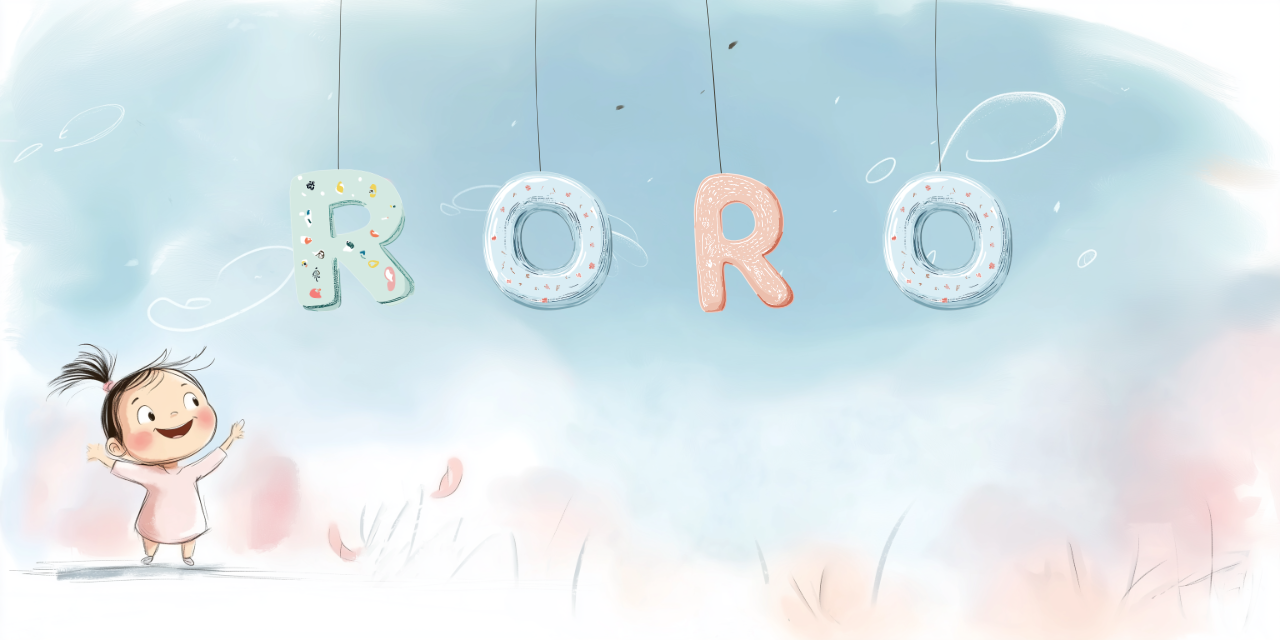
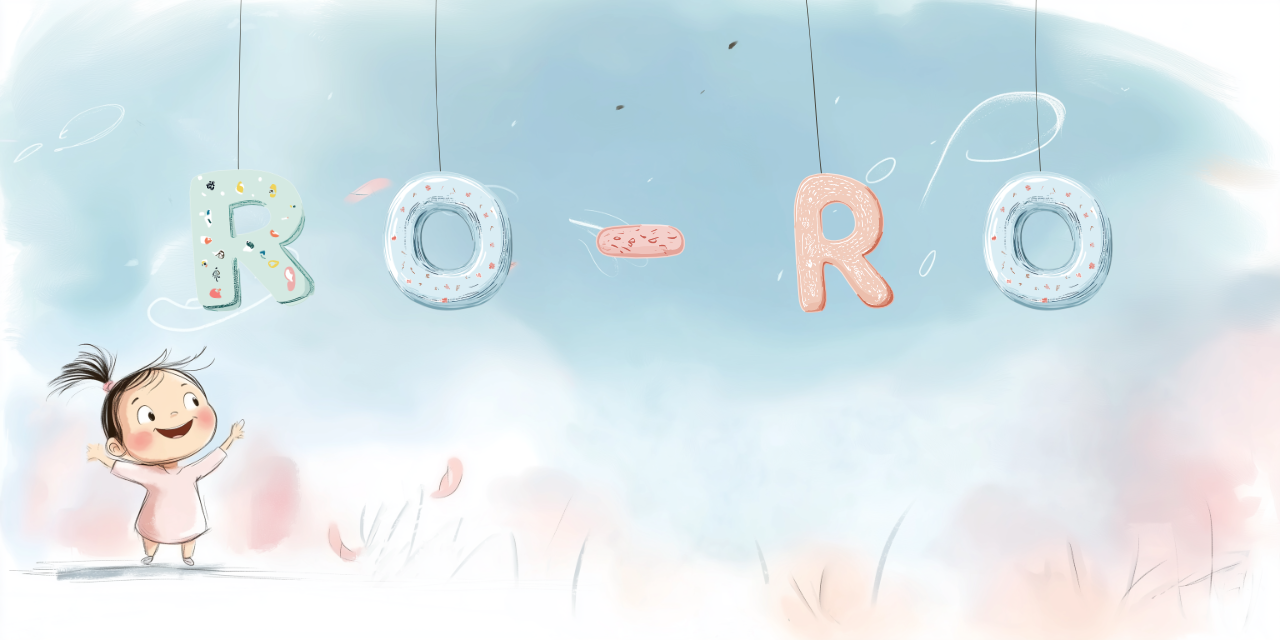
✍ Hyphenated Name Support Added
### Updates Implemented:
1. **Hyphen Recognition & Inclusion**
   - Names with hyphens (e.g., Jean-Luc) are now correctly recognized.
   - Hyphens are counted as valid characters in name length calculations.

2. **Hyphen Image Handling**
   - Correct hyphen images are used:
     - Standard: `hyphen.png`
     - Small: `hyphen_small.png`
   - Hyphen placement maintains proper spacing and alignment in rendering.

3. **Form Input & Data Transmission**
   - 'First Name' field now retains hyphens during input.
   - Hyphen preservation ensured during transmission between steps.
   - Validation prevents hyphen removal or alteration. ✅

Seamless support for hyphenated names is now in place! 🚀

Changed region(s): [[0.1562, 0.25, 0.875, 0.5]]

diff --git a/monet_V0_8/Monet_V0_8.py b/monet_V0_8/Monet_V0_8.py
@@ -4,34 +4,33 @@ from PIL import Image
 
 def generate_background_image(child_name, config):
     """
-    Generates 'Background_<child_name>.png' by overlaying smaller letter images
-    (or smaller "small" images) onto the background.
-    
-    Key features:
+    Generates 'Background_<child_name>.png' by overlaying letter images
+    onto the background. Features include:
       - Dynamic letter spacing per name length (2..12)
-      - Two sets of letter images:
-          * normal (2..7 letters)
-          * small  (8..12 letters)
+      - Two sets of letters: normal (length 2..7) vs. small (length 8..12)
       - Variation cycling for repeated letters (E.png, E1.png, E2.png, etc.)
+      - Hyphenated names (e.g., 'Jean-Luc'), counting the hyphen as a character
+        and using hyphen.png / hyphen_small.png as needed.
     """
 
-    # 1) Decide which folder to use based on length
-    #    2..7 => normal
-    #    8..12 => small
-    #    outside that range => let's default to normal 
+    # 1) Determine the name length (including hyphens)
     name_length = len(child_name)
+
+    # Decide which folder + suffix to use based on length
+    # 2..7 => normal
+    # 8..12 => small
+    # outside that => default to normal
     if 2 <= name_length <= 7:
-        letters_folder_config_key = "letters_normal"
-        suffix_small = ""  # no suffix
+        letters_folder_key = "letters_normal"
+        suffix_small = ""
     elif 8 <= name_length <= 12:
-        letters_folder_config_key = "letters_small"
+        letters_folder_key = "letters_small"
         suffix_small = config.get("filename_suffix_small", "_small")
     else:
-        # fallback if name length is 1 or >12
-        letters_folder_config_key = "letters_normal"
+        letters_folder_key = "letters_normal"
         suffix_small = ""
 
-    # 2) Extract relevant config paths
+    # 2) Build paths from config
     background_path = os.path.join(
         os.path.dirname(__file__),
         config["paths"]["new_background"].replace("monet_V0_8/", "")
@@ -39,7 +38,7 @@ def generate_background_image(child_name, config):
 
     letters_folder = os.path.join(
         os.path.dirname(__file__),
-        config["paths"][letters_folder_config_key].replace("monet_V0_8/", "")
+        config["paths"][letters_folder_key].replace("monet_V0_8/", "")
     )
 
     output_folder = os.path.join(
@@ -47,108 +46,105 @@ def generate_background_image(child_name, config):
         config["paths"]["new_output"].replace("monet_V0_8/", "")
     )
 
-    # Make sure the output folder exists
+    # Make sure output folder exists
     os.makedirs(output_folder, exist_ok=True)
 
-    # Load the background image
+    # 3) Load background
     background = Image.open(background_path).convert("RGBA")
     bg_width, bg_height = background.size
 
     # Convert child's name into a list of characters
-    letters_in_name = [char for char in child_name]
+    letters_in_name = list(child_name)  # includes hyphens if present
     if not letters_in_name:
         print("[Warning] Child name is empty, nothing to generate.")
         return
 
-    # 3) Determine letter spacing
+    # 4) Determine letter spacing
     spacing_dict = config.get("letter_spacing_per_length", {})
     default_spacing = config.get("default_letter_spacing_px", 0)
     letter_spacing = spacing_dict.get(str(name_length), default_spacing)
 
-    # 4) Variation logic
-    # We'll scan the letters folder for valid files for each letter and store them in a cache.
-    # Filenames might be E.png, E1.png, E2.png, or if suffix_small is not empty: E_small.png, E1_small.png, etc.
-    # We'll then pick the nth variation for the nth occurrence of that letter.
+    # 5) Variation logic
+    # We'll collect images for each character in the name, possibly cycling variations.
+    # Hyphen => "hyphen.png" or "hyphen_small.png"
+    # Letters => e.g. E.png, E1.png, E_small.png, E1_small.png, etc.
 
     variations_cache = {}
 
-    def get_variations_for_letter(uppercase_char):
+    def get_variations_for_char(char: str):
         """
-        Return a list of paths to variation images for the given uppercase_char,
-        optionally appending the _small suffix if needed.
-        Example: For 'E' + suffix='_small', we look for E_small.png, E1_small.png, E2_small.png, etc.
+        Returns the list of valid image paths for the given character,
+        applying the suffix for 'small' if needed.
         """
-        pattern_without_digits = rf"^{uppercase_char}{suffix_small}\.png$"
-        pattern_with_digits =   rf"^{uppercase_char}(\d+){suffix_small}\.png$"
+        # If it's a hyphen, treat it as 'hyphen' as the base name
+        if char == '-':
+            base_char = 'hyphen'
+        else:
+            # For letters, uppercase them (e.g., 'E')
+            base_char = char.upper()
+
+        # Example filenames: 
+        #   E.png, E1.png (normal)
+        #   E_small.png, E1_small.png (small)
+        #   hyphen.png, hyphen_small.png
+        # We'll handle them with a regex that checks for optional digits 
+        # between the base_char and suffix_small, e.g. E1_small
+        pattern_without_digits = rf"^{re.escape(base_char)}{suffix_small}\.png$"
+        pattern_with_digits   = rf"^{re.escape(base_char)}(\d+){re.escape(suffix_small)}\.png$"
 
         valid_files = []
         for filename in os.listdir(letters_folder):
-            # Does the file match either E_small.png or E1_small.png or E2_small.png etc.?
             if re.match(pattern_without_digits, filename) or re.match(pattern_with_digits, filename):
                 valid_files.append(filename)
 
-        # Sort them so e.g. E_small.png < E1_small.png < E2_small.png
-        valid_files.sort()
+        valid_files.sort()  # E.png < E1.png < E2.png, or hyphen.png < hyphen1.png, etc.
+        return [os.path.join(letters_folder, f) for f in valid_files]
 
-        # Convert to full paths
-        full_paths = [os.path.join(letters_folder, f) for f in valid_files]
-        return full_paths
+    def load_next_variation(char: str):
+        # If we haven't cached variations for this character, do it now
+        if char not in variations_cache:
+            variations_cache[char] = (get_variations_for_char(char), 0)
 
-    def load_next_variation(uppercase_char):
-        """
-        Each time we call this for a given uppercase_char, we get the next variation
-        in a round-robin fashion.
-        """
-        # If not in cache, load once
-        if uppercase_char not in variations_cache:
-            variations_cache[uppercase_char] = get_variations_for_letter(uppercase_char), 0
-
-        files_list, index = variations_cache[uppercase_char]
-
+        files_list, index = variations_cache[char]
         if not files_list:
-            # No images found, return None
+            # No files found for this char
             return None
 
-        # Pick the current file
         chosen_file = files_list[index]
-        # Move the index forward (wrap around if needed)
-        new_index = (index + 1) % len(files_list)
-        variations_cache[uppercase_char] = (files_list, new_index)
+        new_index = (index + 1) % len(files_list)  # round-robin
+        variations_cache[char] = (files_list, new_index)
 
-        # Return the image
         return Image.open(chosen_file).convert("RGBA")
 
+    # 6) Collect images in order
     images_to_composite = []
-    for char in letters_in_name:
-        uppercase_char = char.upper()
-        letter_img = load_next_variation(uppercase_char)
-        if letter_img:
-            images_to_composite.append(letter_img)
+    for ch in letters_in_name:
+        img = load_next_variation(ch)
+        if img:
+            images_to_composite.append(img)
         else:
-            print(f"[Warning] No images found for letter '{char}' with suffix '{suffix_small}'. Skipping.")
+            print(f"[Warning] No images found for character '{ch}'. Skipping.")
 
-    # If no images loaded, do nothing
     if not images_to_composite:
-        print("[Warning] No valid letters loaded, skipping generation.")
+        print("[Warning] No valid images loaded, skipping generation.")
         return
 
-    # 5) Calculate total width of images + spacing
-    letter_widths = [img.size[0] for img in images_to_composite]
-    sum_letter_widths = sum(letter_widths)
+    # 7) Calculate total width + spacing
+    widths = [img.size[0] for img in images_to_composite]
+    sum_widths = sum(widths)
     total_spacing = (len(images_to_composite) - 1) * letter_spacing
-    total_width = sum_letter_widths + total_spacing
+    total_width = sum_widths + total_spacing
 
-    # 6) Compute x_start to center horizontally, and a top_y for top alignment
+    # 8) Center horizontally, top aligned
     x_start = (bg_width - total_width) // 2
-    top_y = 0  # or config.get("top_alignment_y", 0) if you prefer a top offset
+    top_y = 0  # Could read from config if desired
 
-    # 7) Composite
     current_x = x_start
     for img in images_to_composite:
         background.alpha_composite(img, dest=(current_x, top_y))
         current_x += img.size[0] + letter_spacing
 
-    # 8) Save
+    # 9) Save
     output_filename = f"Background_{child_name}.png"
     output_path = os.path.join(output_folder, output_filename)
     background.save(output_path)
